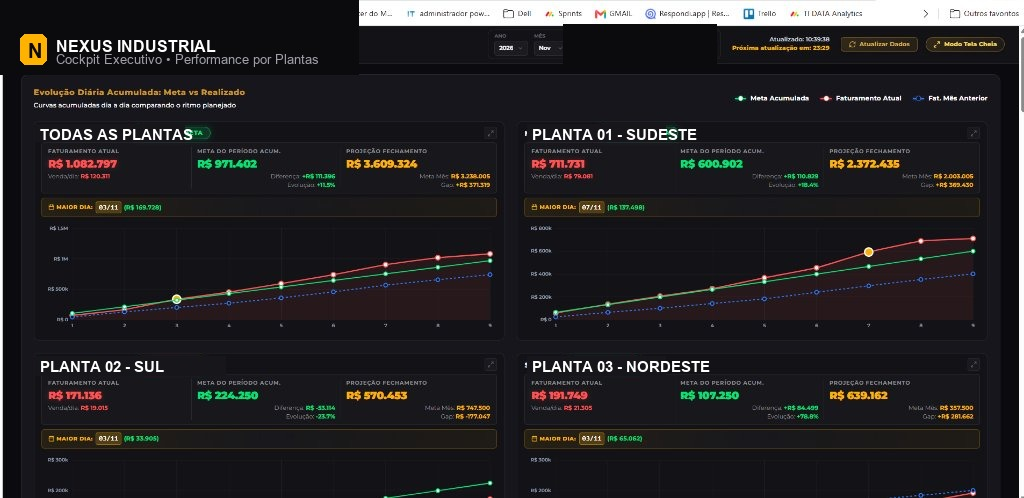
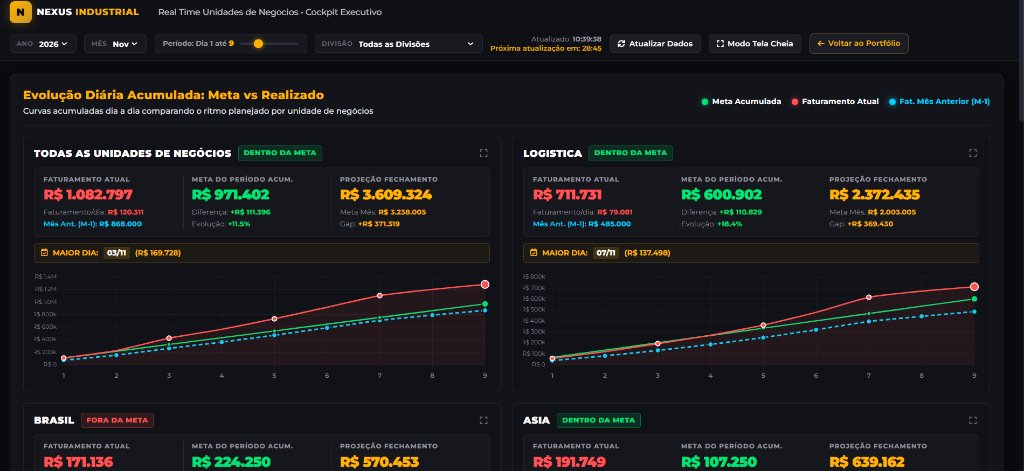
feat: atualizar screenshot do card Real Time Unidades de Negocios

diff --git a/index.html b/index.html
@@ -1372,7 +1372,7 @@
         "tech": "Executive Analytics / Chart.js / Real Time",
         "stack": [],
         "impact": "Governança executiva operacional em tempo real com monitoramento de R$ 3.6M faturados, atingimento de 111.5% da meta acumulada e visibilidade preditiva de desvios operacionais.",
-        "image": "static/portfolio_screenshots/dash_analise_plantas.jpg",
+        "image": "static/portfolio_screenshots/dash_analise_plantas.jpg?v=20261114_rt",
         "is_static": false,
         "live_url": "dashboard_analise_plantas.html",
         "secondary_url": null,

diff --git a/portfolio_empresa.html b/portfolio_empresa.html
@@ -1380,7 +1380,7 @@
         "tech": "Executive Analytics / Chart.js / Real Time",
         "stack": [],
         "impact": "Governança executiva operacional em tempo real com monitoramento de R$ 3.6M faturados, atingimento de 111.5% da meta acumulada e visibilidade preditiva de desvios operacionais.",
-        "image": "static/portfolio_screenshots/dash_analise_plantas.jpg",
+        "image": "static/portfolio_screenshots/dash_analise_plantas.jpg?v=20261114_rt",
         "is_static": false,
         "live_url": "dashboard_analise_plantas.html",
         "secondary_url": null,

diff --git a/portifolio_empresa.html b/portifolio_empresa.html
@@ -1380,7 +1380,7 @@
         "tech": "Executive Analytics / Chart.js / Real Time",
         "stack": [],
         "impact": "Governança executiva operacional em tempo real com monitoramento de R$ 3.6M faturados, atingimento de 111.5% da meta acumulada e visibilidade preditiva de desvios operacionais.",
-        "image": "static/portfolio_screenshots/dash_analise_plantas.jpg",
+        "image": "static/portfolio_screenshots/dash_analise_plantas.jpg?v=20261114_rt",
         "is_static": false,
         "live_url": "dashboard_analise_plantas.html",
         "secondary_url": null,
